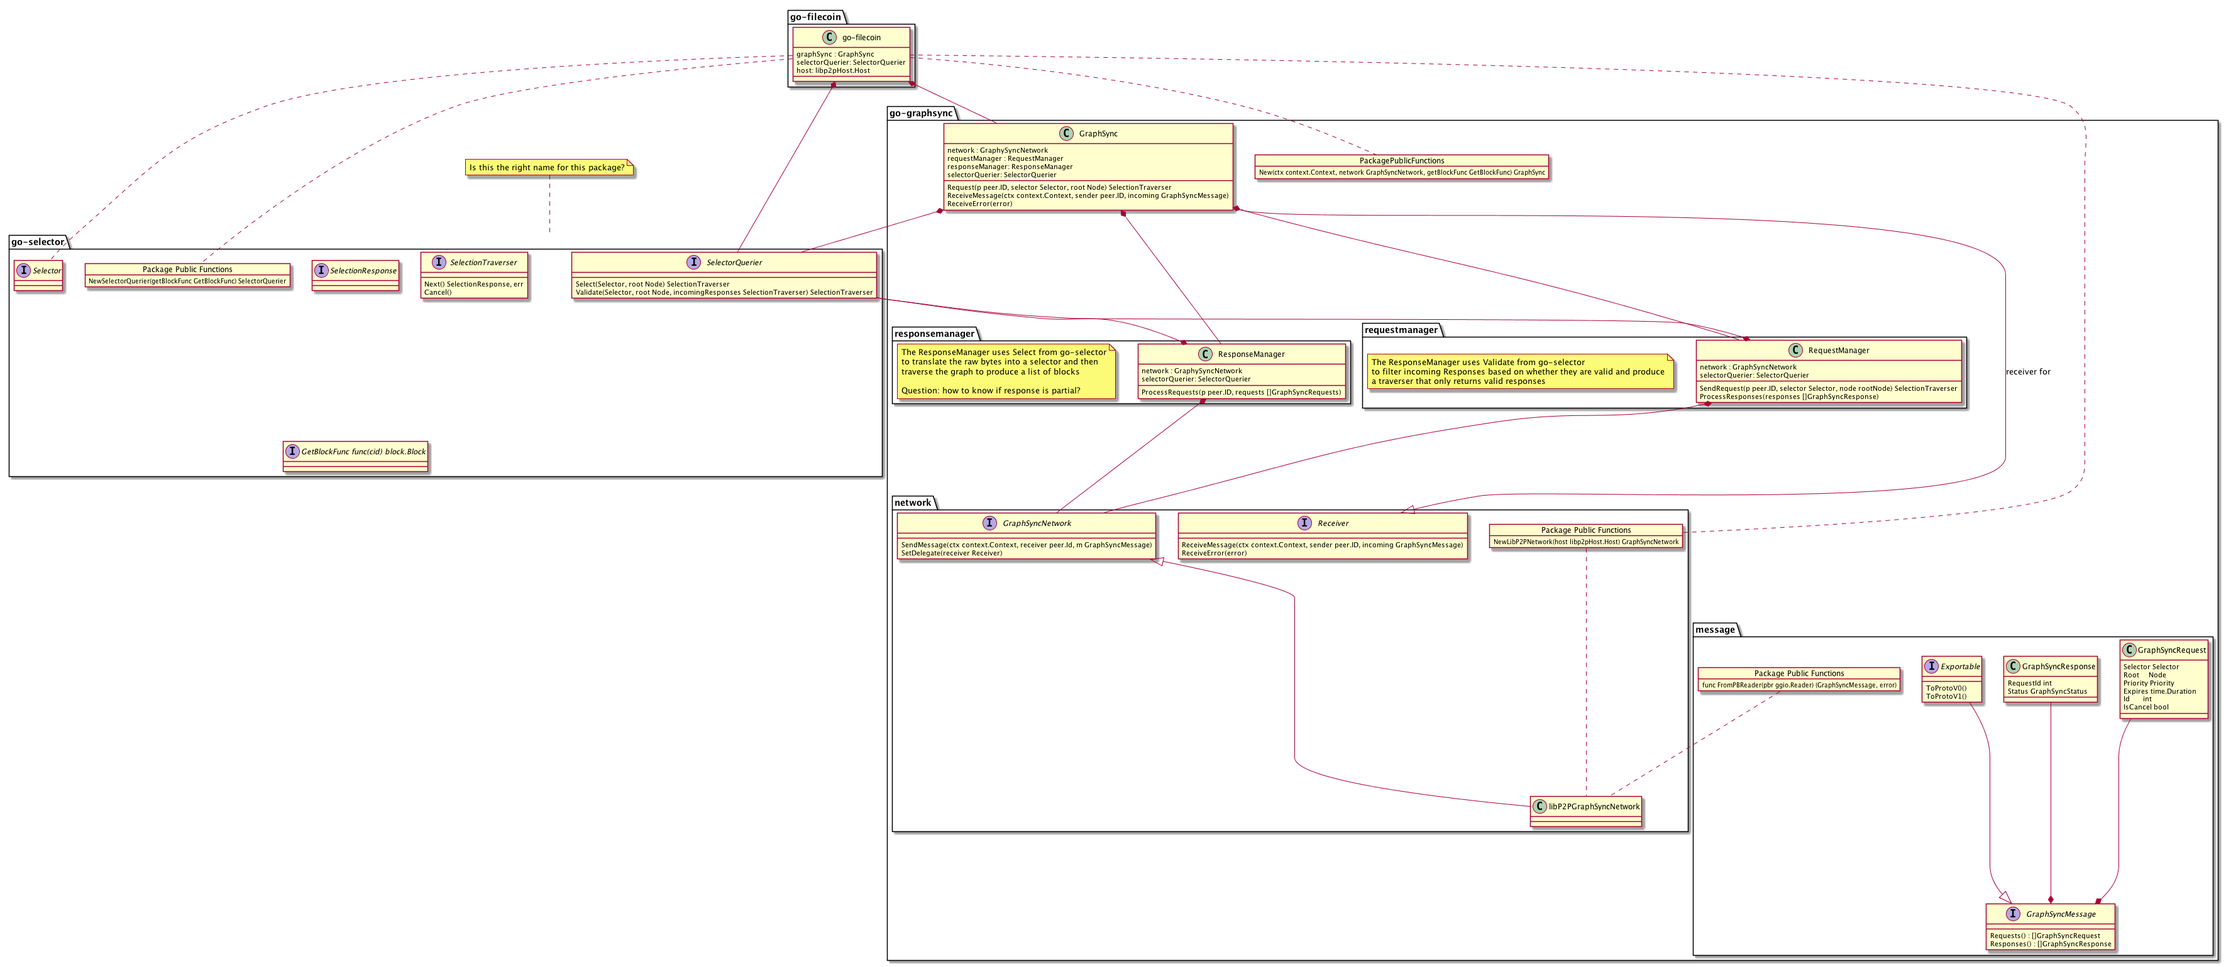
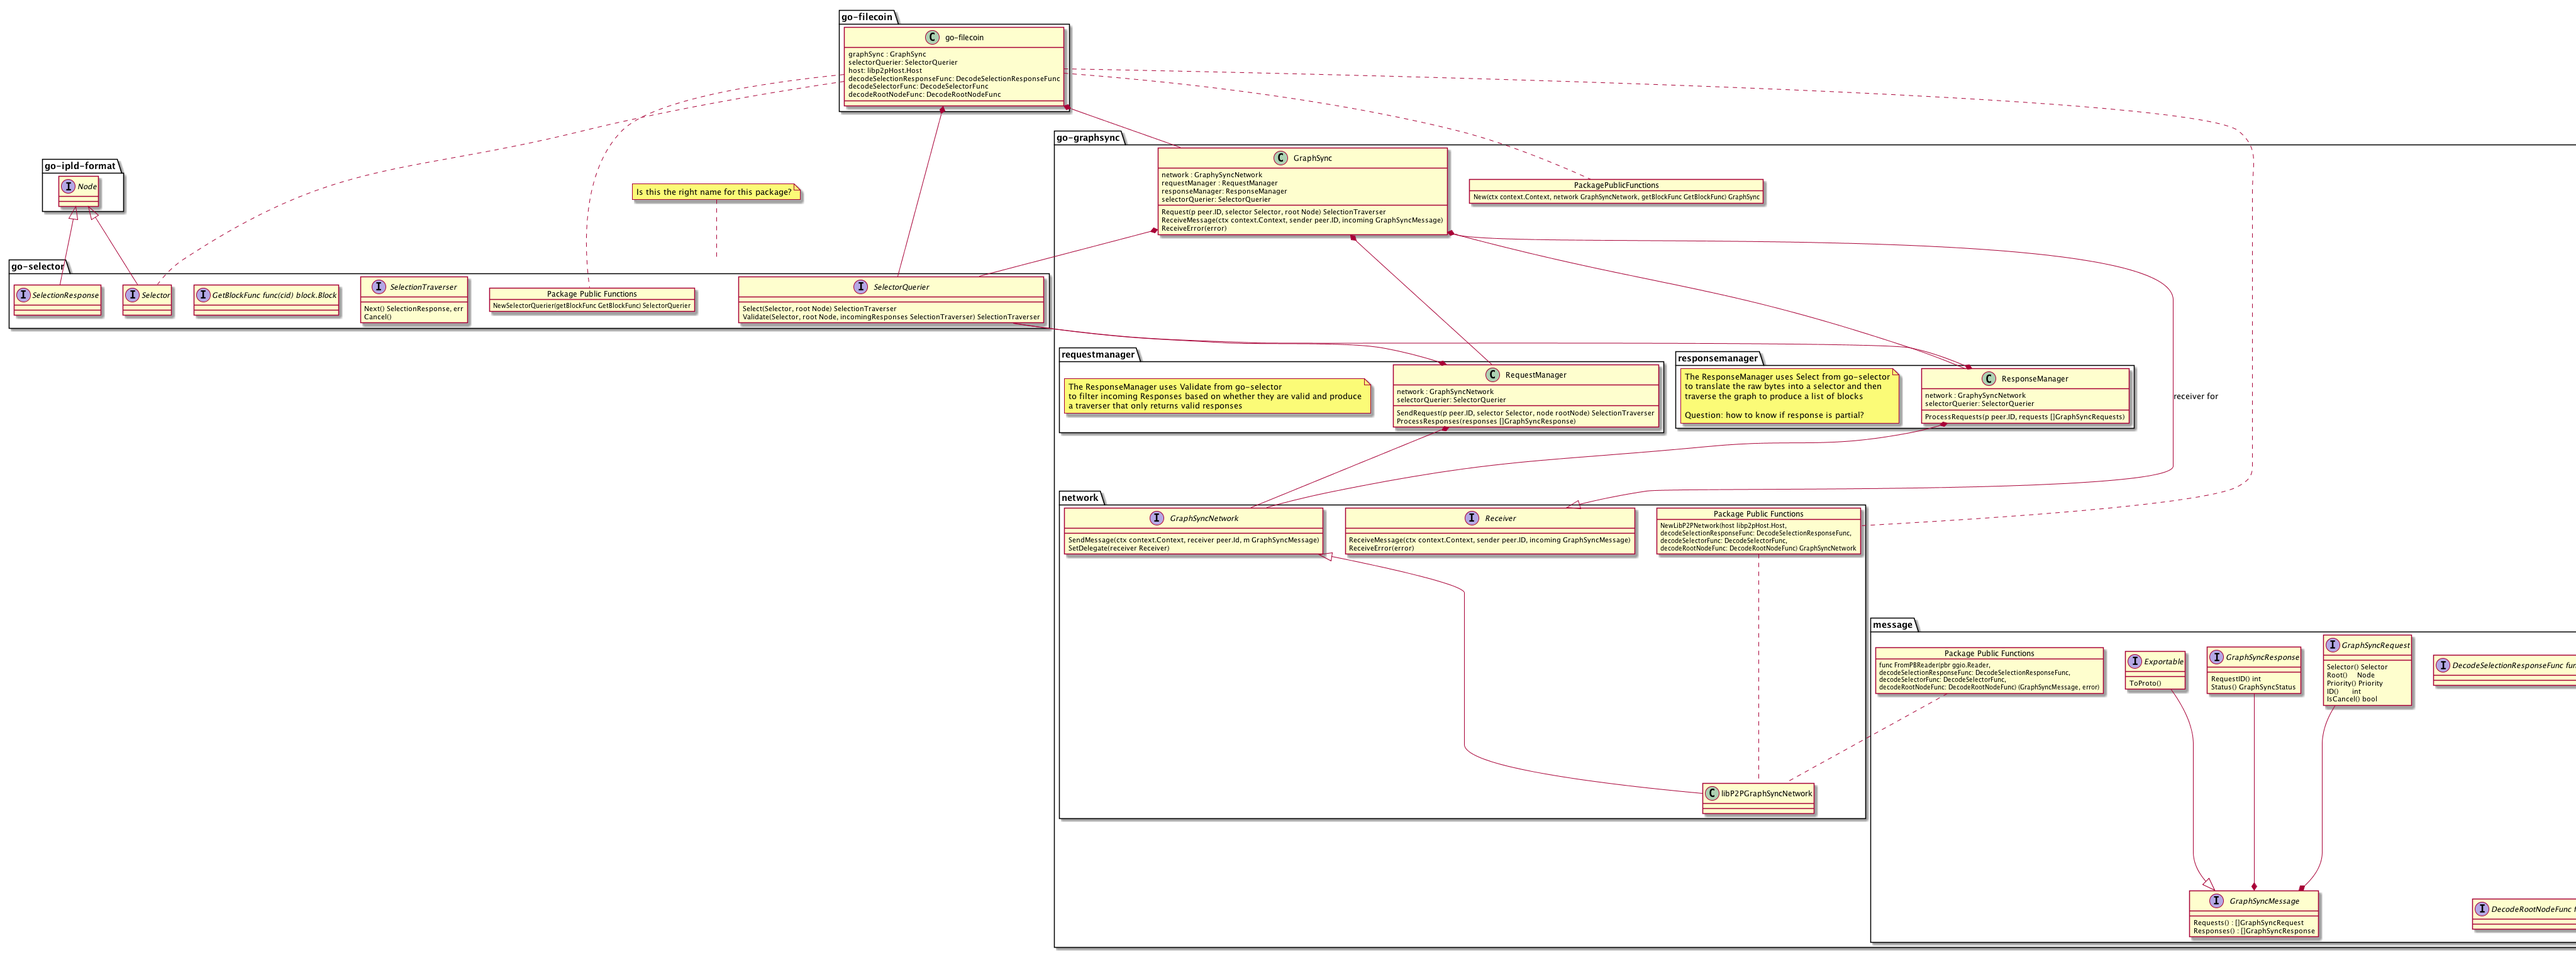
docs(diagram): update architecture diagram

diff --git a/selector/selector.go b/selector/selector.go
@@ -4,22 +4,26 @@ import (
 	ipld "github.com/ipfs/go-ipld-format"
 )
 
+// Selector is an interface for an IPLD Selector.
 type Selector interface {
 	ipld.Node
 }
 
+// SelectionResponse is an interface that represents part of the results
+// of a selector query.
 type SelectionResponse interface {
 	ipld.Node
 }
 
+// SelectionTraverser is an interface for navigating a response to a selector
+// query.
 type SelectionTraverser interface {
 	Next() (SelectionResponse, error)
 	Cancel()
 }
 
-type SelectorManager interface {
+// SelectorQuerier can be used to make and validate selector queries.
+type SelectorQuerier interface {
 	Select(Selector, root ipld.Node) SelectionTraverser
 	Validate(Selector, root ipld.Node, incomingResponses SelectionTraverser) SelectionTraverser
-	DecodeSelector([]byte) Selector
-	DecodeSelectorResponse([]byte) SelectionResponse
 }
